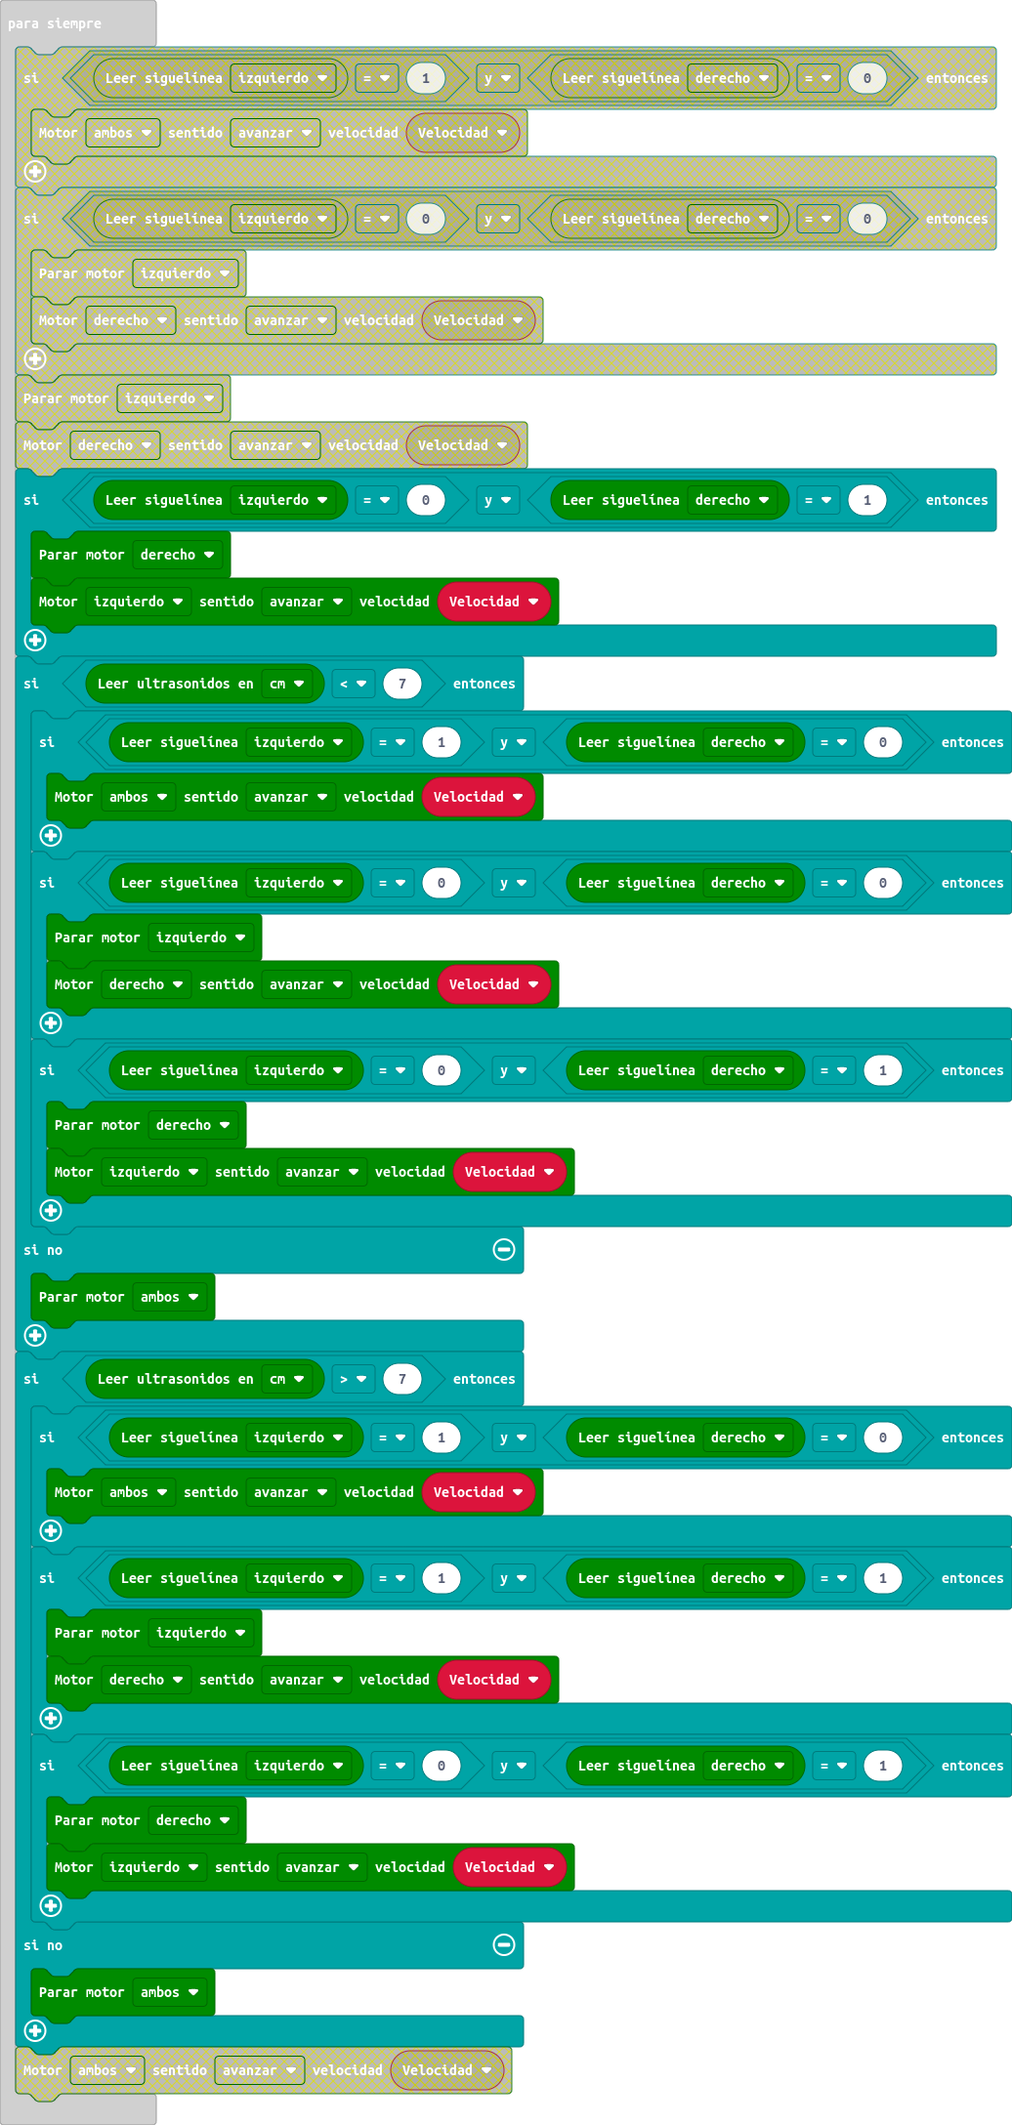
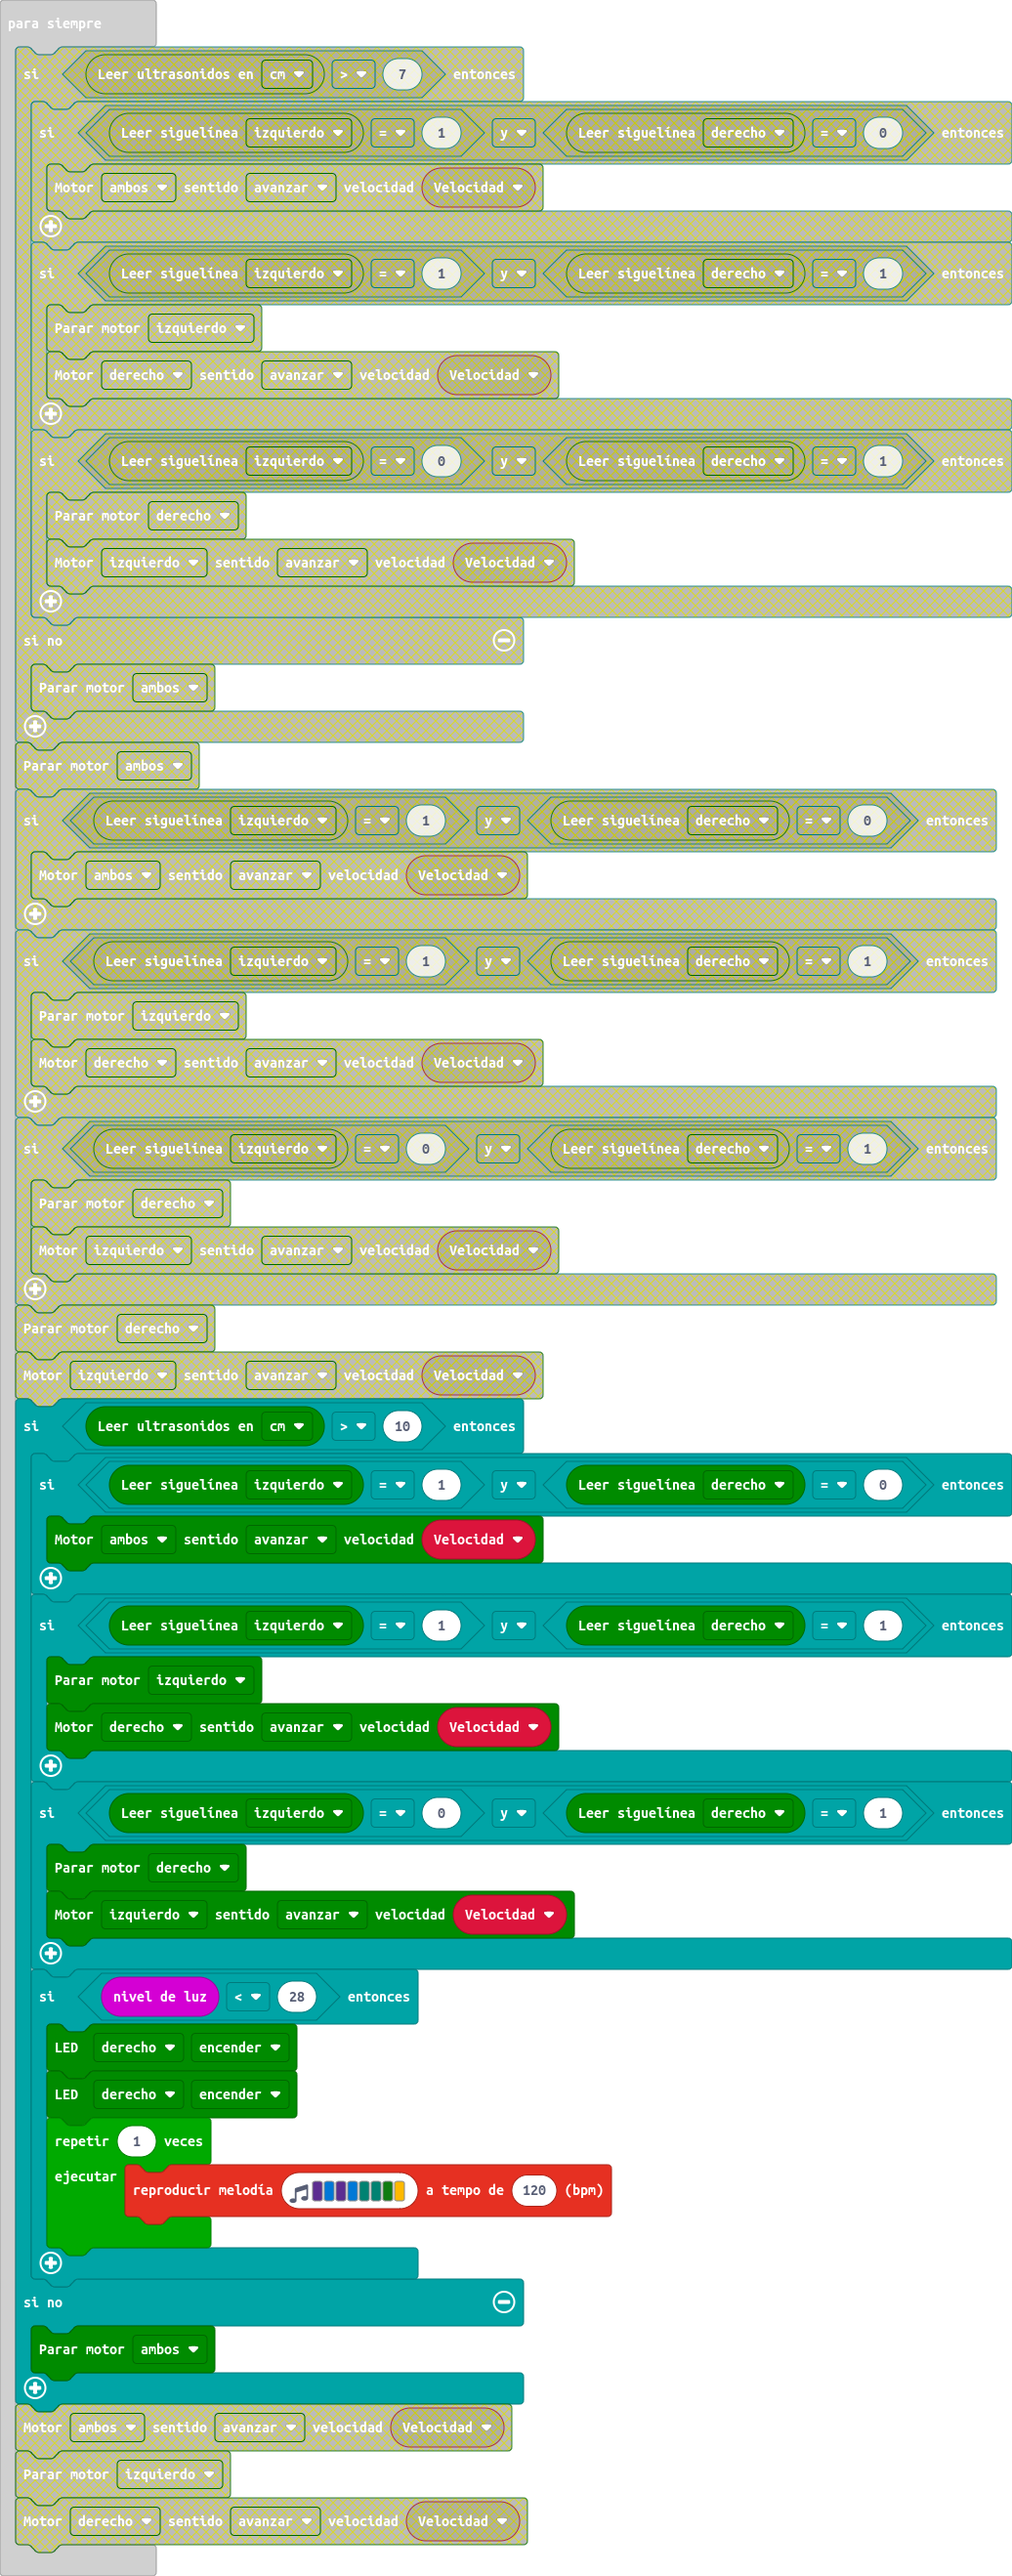
Actualizar main.blocks, main.ts

diff --git a/main.ts b/main.ts
@@ -1,6 +1,6 @@
 let Velocidad = 40
 basic.forever(function () {
-    if (maqueen.Ultrasonic(PingUnit.Centimeters) > 7) {
+    if (maqueen.Ultrasonic(PingUnit.Centimeters) > 10) {
         if (maqueen.readPatrol(maqueen.Patrol.PatrolLeft) == 1 && maqueen.readPatrol(maqueen.Patrol.PatrolRight) == 0) {
             maqueen.motorRun(maqueen.Motors.All, maqueen.Dir.CW, Velocidad)
         }
@@ -11,6 +11,13 @@ basic.forever(function () {
         if (maqueen.readPatrol(maqueen.Patrol.PatrolLeft) == 0 && maqueen.readPatrol(maqueen.Patrol.PatrolRight) == 1) {
             maqueen.motorStop(maqueen.Motors.M2)
             maqueen.motorRun(maqueen.Motors.M1, maqueen.Dir.CW, Velocidad)
+        }
+        if (input.lightLevel() < 28) {
+            maqueen.writeLED(maqueen.LED.LEDRight, maqueen.LEDswitch.turnOn)
+            maqueen.writeLED(maqueen.LED.LEDRight, maqueen.LEDswitch.turnOn)
+            for (let index = 0; index < 1; index++) {
+                music.playMelody("D E D E F F G A ", 120)
+            }
         }
     } else {
         maqueen.motorStop(maqueen.Motors.All)
